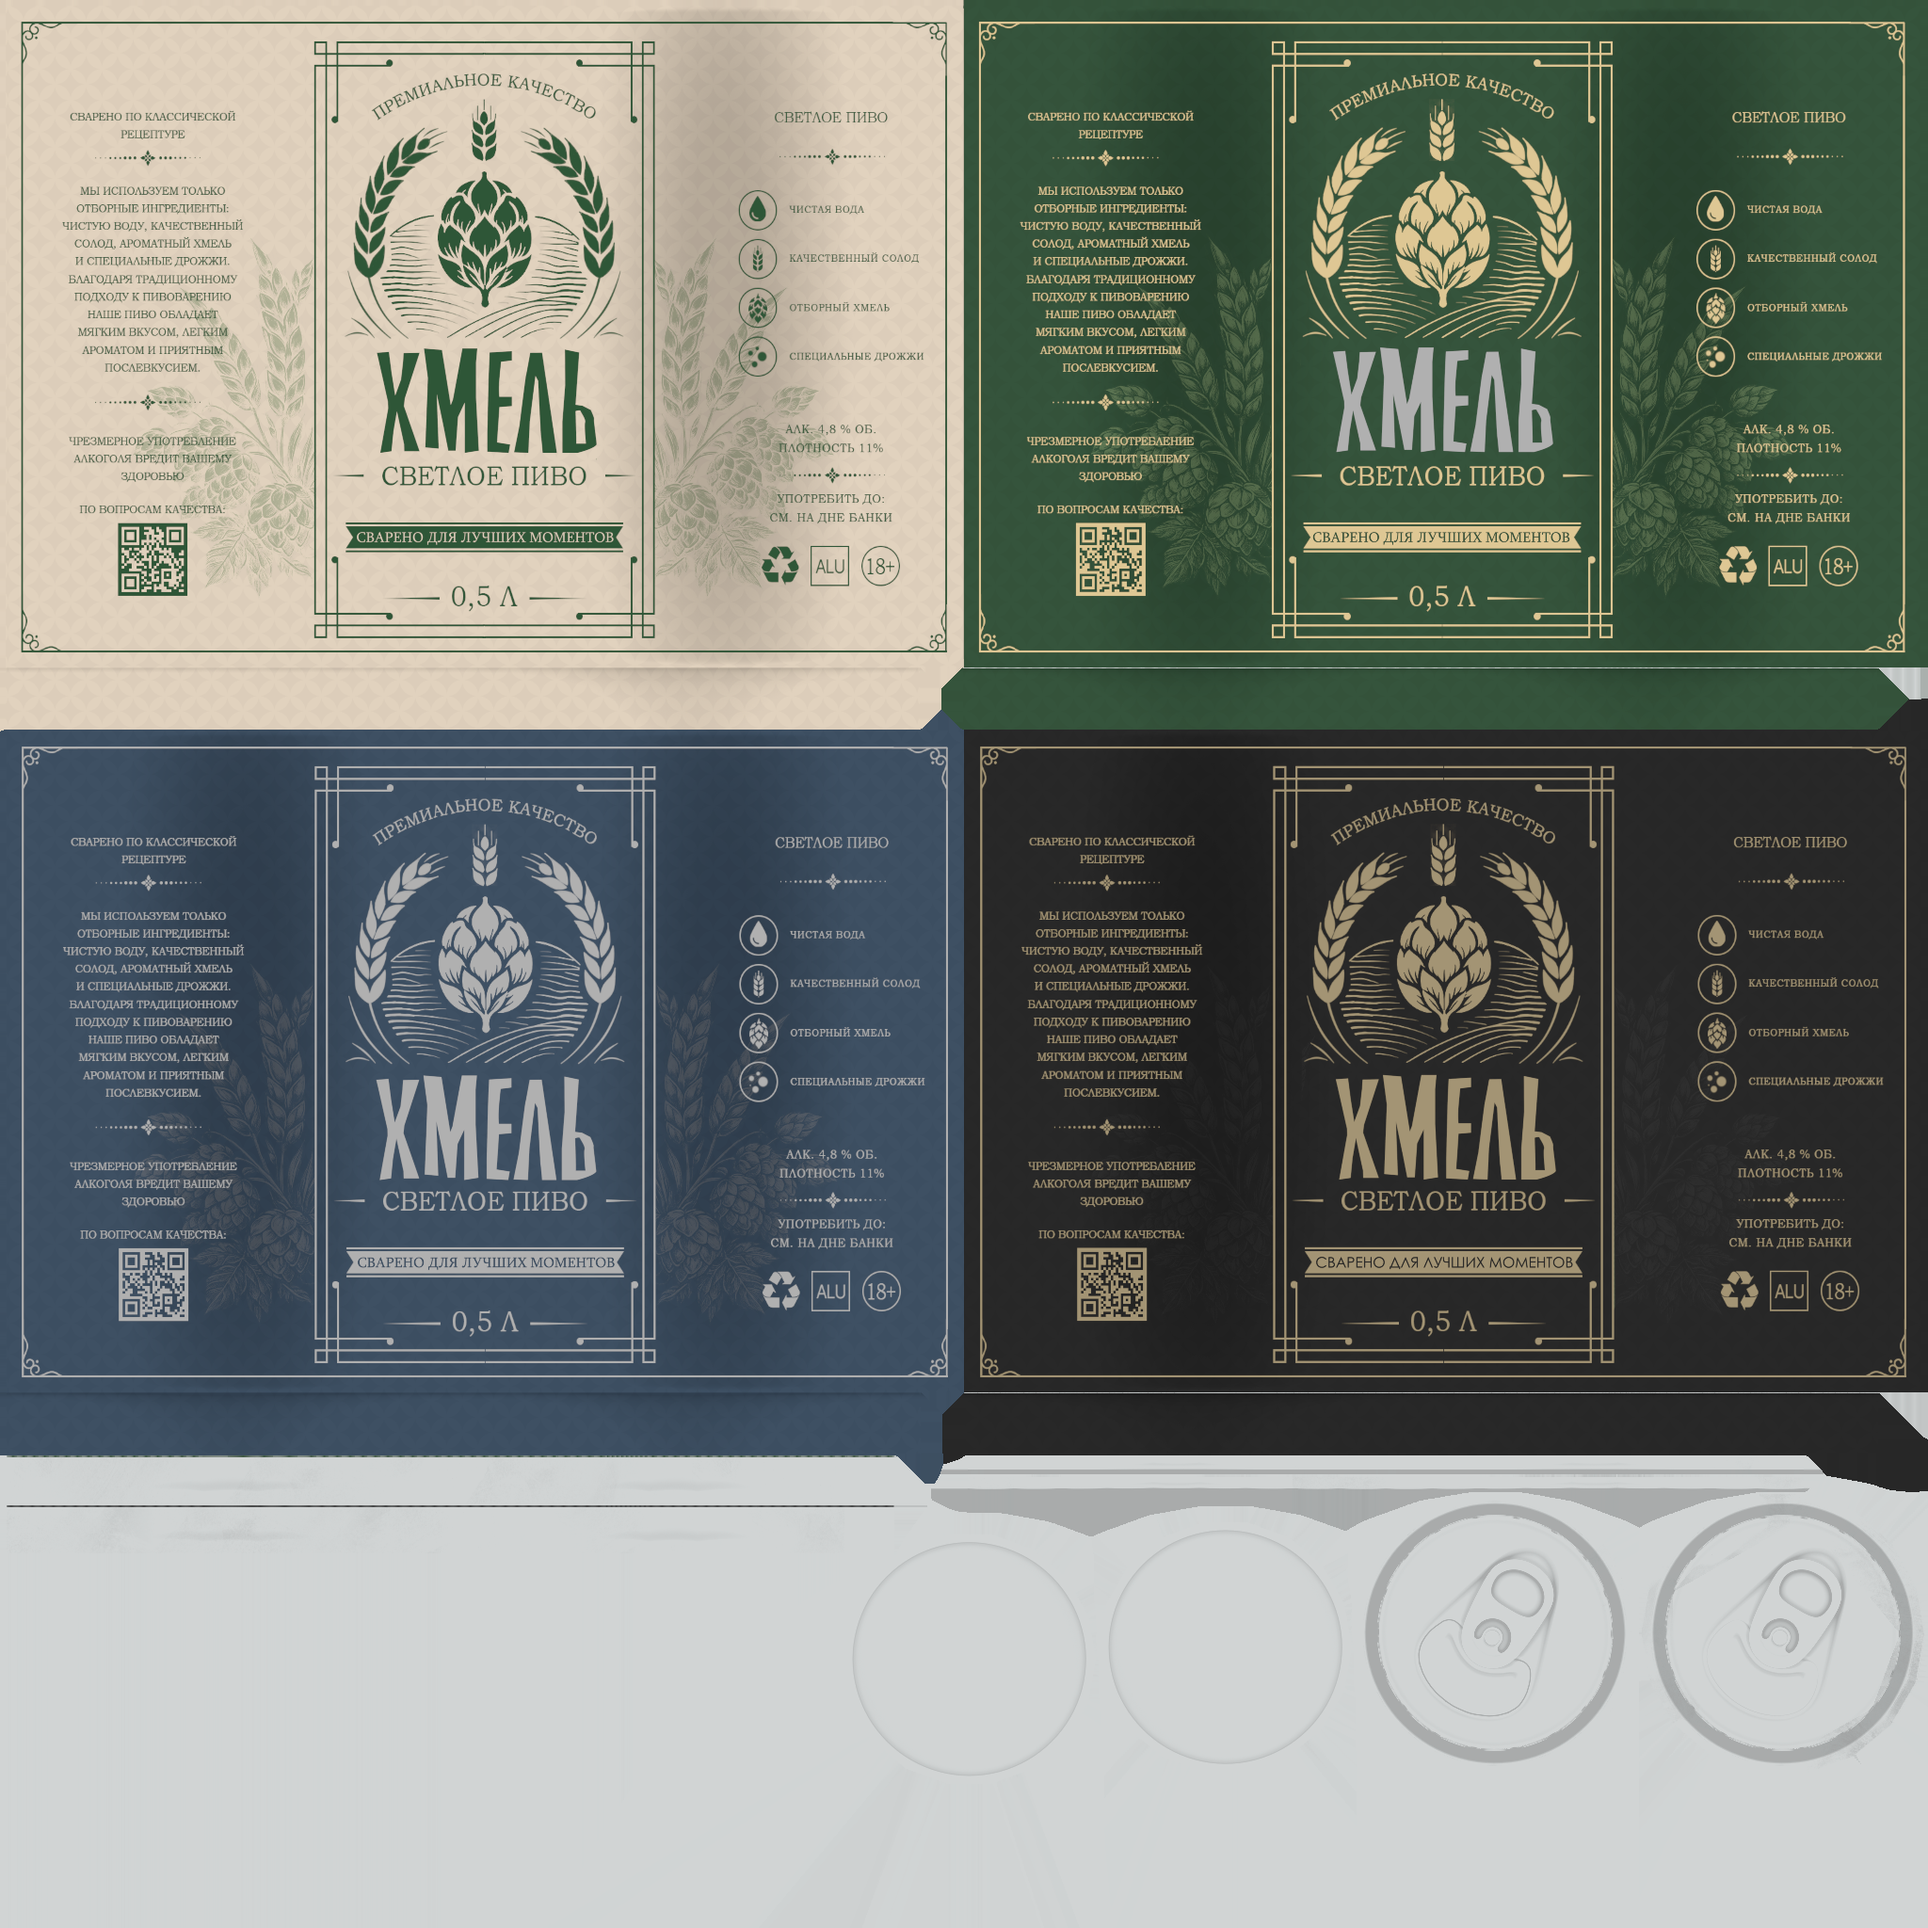
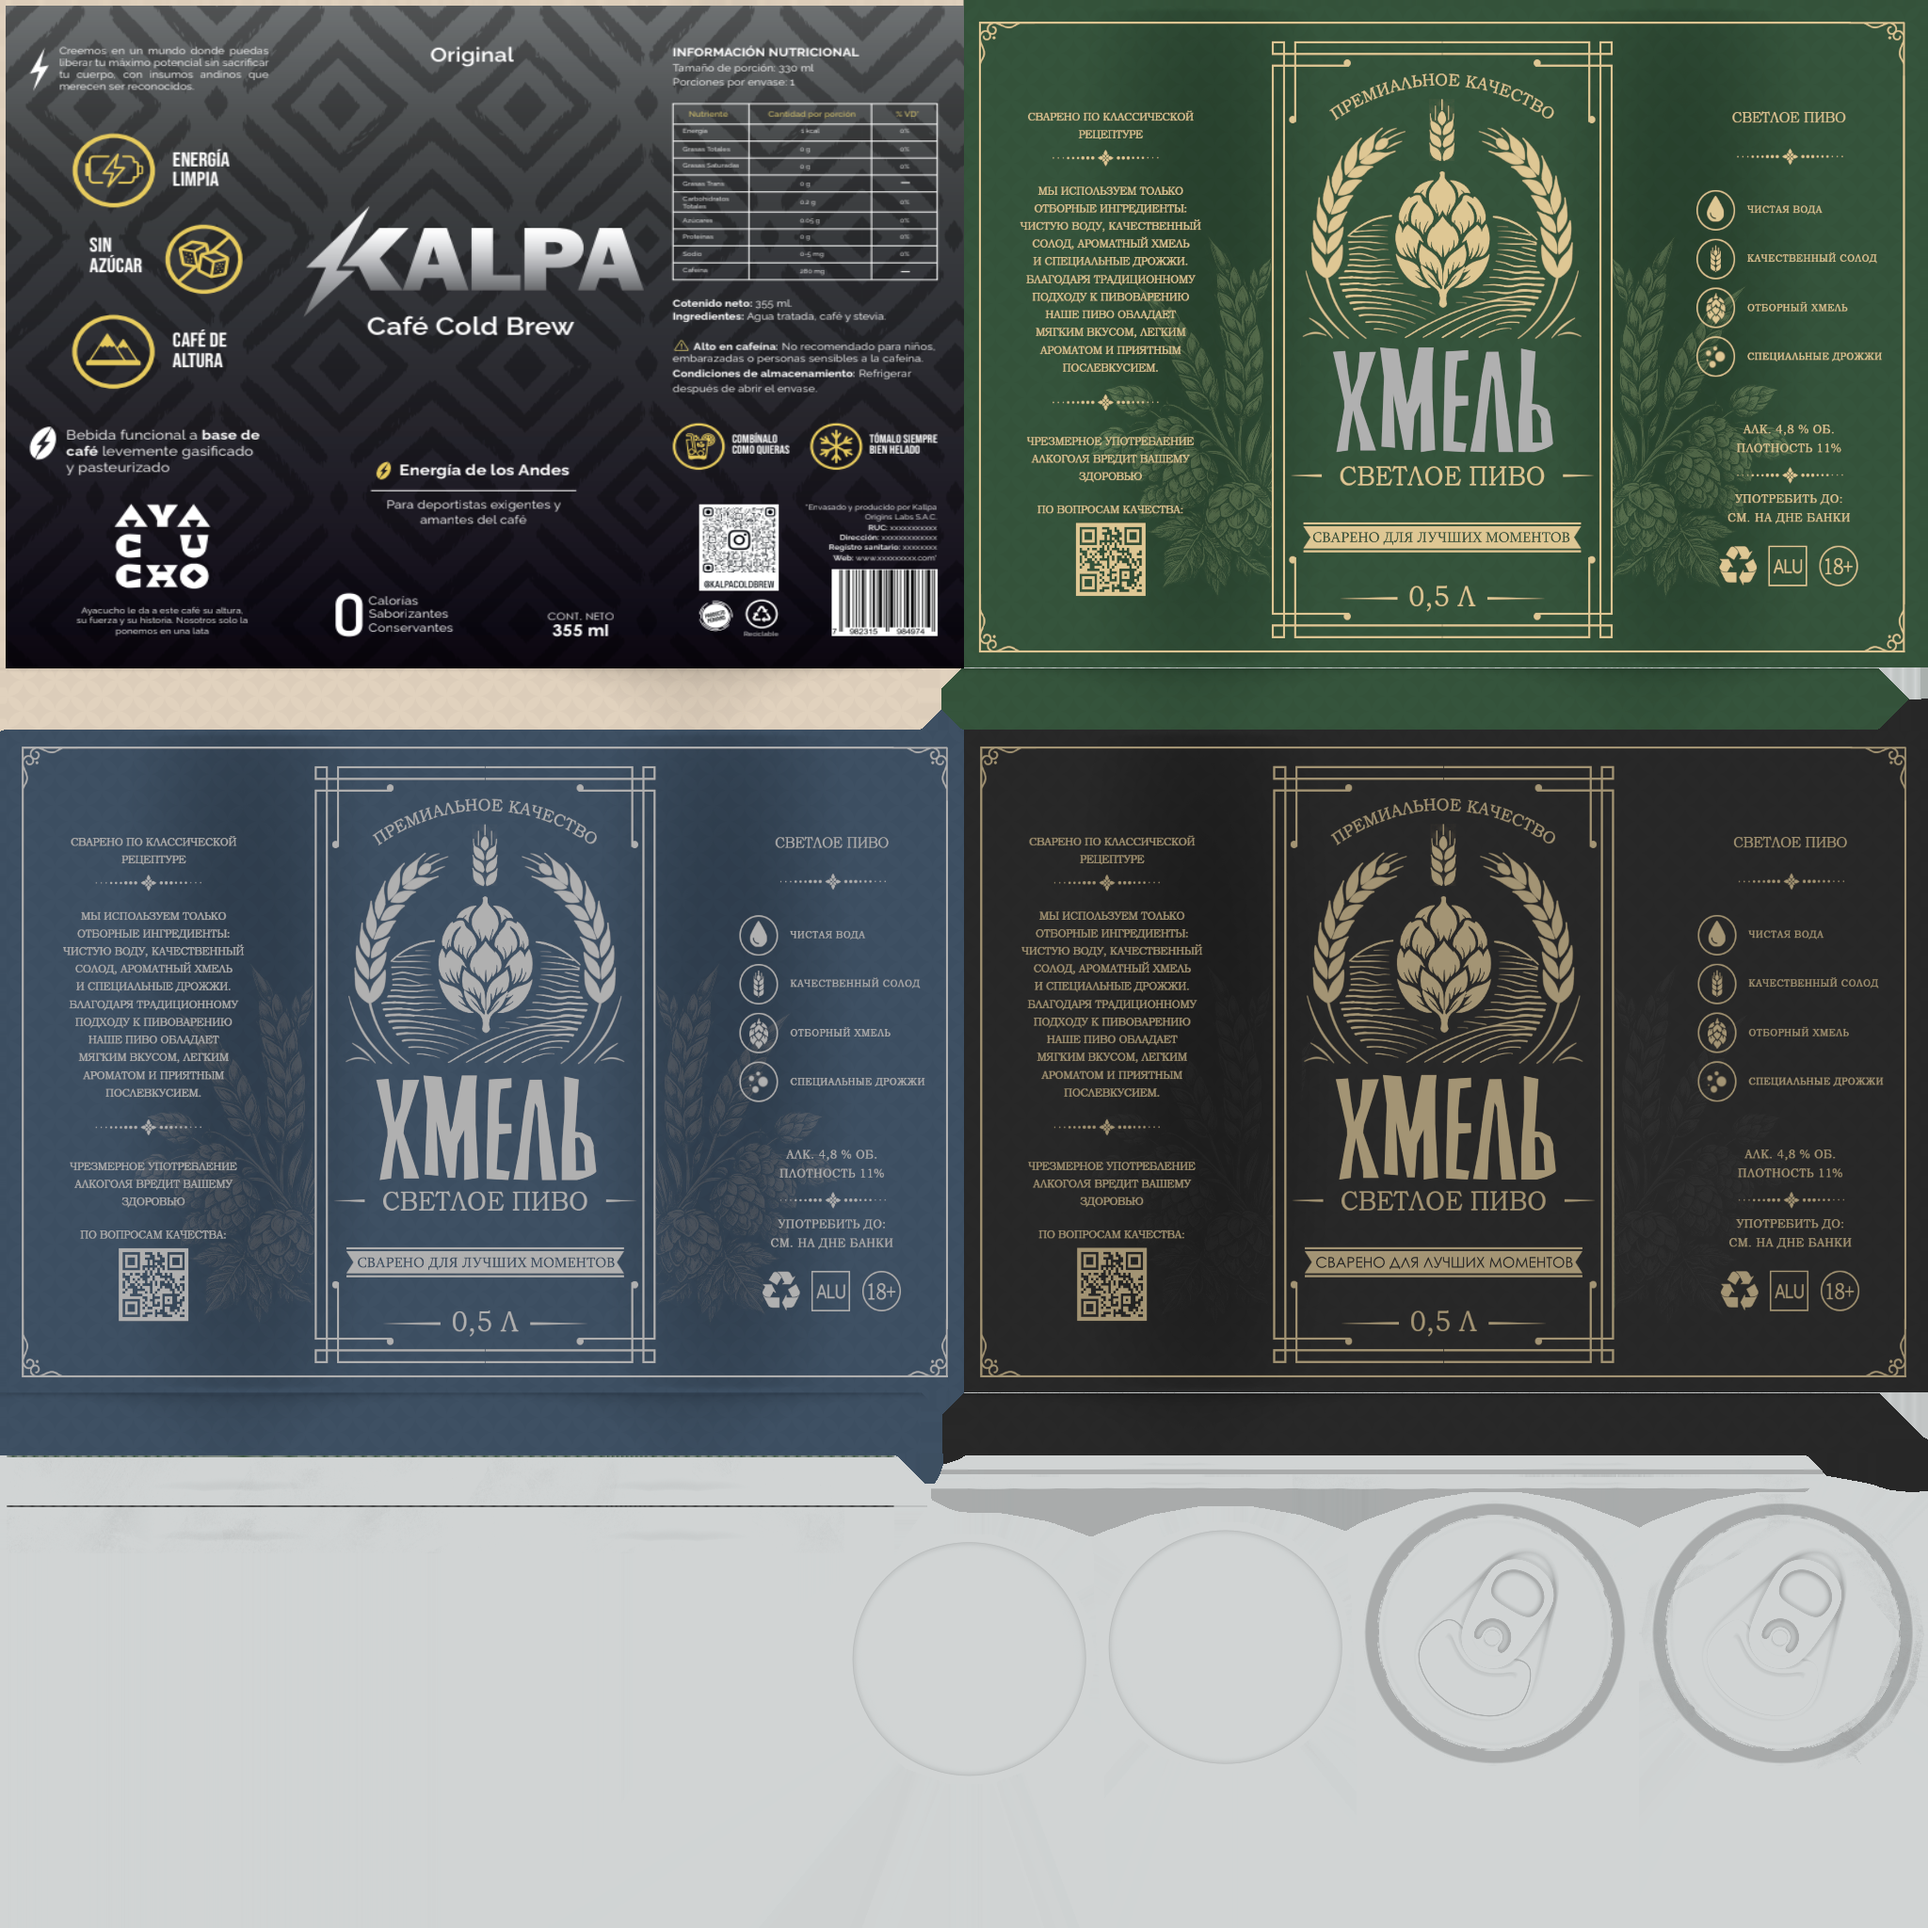
Aplicar diseno oficial KALPA Cafe Cold Brew y corregir deformacion en textura de la tapa

Changed region(s): [[0.0, 0.0, 0.5, 0.3438]]

diff --git a/RimRefiner.js b/RimRefiner.js
@@ -2,19 +2,17 @@ import * as THREE from 'three';
 import { mergeVertices } from 'three/addons/utils/BufferGeometryUtils.js';
 
 /**
- * Modifica la geometría de la lata original existente para que el borde superior (rim)
- * pase de ser un polígono facetado de 18 lados a un círculo perfectamente suave y continuo (72 lados),
- * manteniendo el resto de la lata, sus proporciones y sus UVs intactos.
+ * Modifica la geometría de la lata original existente para que únicamente el borde exterior (rim/chime)
+ * pase de ser un polígono facetado de 18 lados a un círculo suave y continuo (72 lados),
+ * dejando la tapa plana interior y el resto de la lata 100% intactos y sin ninguna deformación en su textura.
  * 
  * @param {THREE.BufferGeometry} geometry - Geometría original del FBX
  * @param {number} passes - Número de pases de subdivisión (2 = 72 segmentos radiales)
  * @returns {THREE.BufferGeometry} Geometría con el borde circular suavizado
  */
 export function makeCanRimCircular(geometry, passes = 2) {
-  // Trabajar sobre una copia limpia
   let currentGeo = geometry.clone();
 
-  // Asegurar que no esté indexada temporalmente para poder subdividir los triángulos del borde limpiamente
   if (currentGeo.index) {
     currentGeo = currentGeo.toNonIndexed();
   }
@@ -32,11 +30,24 @@ export function makeCanRimCircular(geometry, passes = 2) {
       const v1 = getV(i), v2 = getV(i + 1), v3 = getV(i + 2);
       const u1 = getU(i), u2 = getU(i + 1), u3 = getU(i + 2);
 
-      // En el FBX de la lata, la altura va a lo largo del eje Z (de 0 en la base a 165 en la tapa)
-      const maxZ = Math.max(v1.z, v2.z, v3.z);
+      const z1 = v1.z, z2 = v2.z, z3 = v3.z;
+      const r1 = Math.hypot(v1.x, v1.y);
+      const r2 = Math.hypot(v2.x, v2.y);
+      const r3 = Math.hypot(v3.x, v3.y);
 
-      // Si el triángulo pertenece al cuello superior o al borde (Z >= 152)
-      if (maxZ >= 152) {
+      const maxZ = Math.max(z1, z2, z3);
+      const minZ = Math.min(z1, z2, z3);
+      const maxR = Math.max(r1, r2, r3);
+
+      // IMPORTANTE:
+      // La tapa plana interior tiene Z ~ 162.5 y R <= 25.5.
+      // Debe quedar 100% intacta para evitar cualquier deformación en la textura de la chapa/tapa.
+      const isLidFace = (maxZ <= 162.6 && minZ >= 162.4 && maxR <= 25.5);
+
+      // Solo circularizamos el reborde exterior metálico (Z >= 162.0 y R >= 26.5)
+      const isOuterRim = !isLidFace && (maxZ >= 161.8 && maxR >= 26.2);
+
+      if (isOuterRim) {
         // Subdivisión 1 triángulo -> 4 triángulos
         const m12 = new THREE.Vector3().addVectors(v1, v2).multiplyScalar(0.5);
         const m23 = new THREE.Vector3().addVectors(v2, v3).multiplyScalar(0.5);
@@ -46,12 +57,12 @@ export function makeCanRimCircular(geometry, passes = 2) {
         const u23 = new THREE.Vector2().addVectors(u2, u3).multiplyScalar(0.5);
         const u31 = new THREE.Vector2().addVectors(u3, u1).multiplyScalar(0.5);
 
-        // Proyectar los puntos medios al radio circular exacto en el plano X-Y
+        // Proyectar únicamente los puntos medios que están en el aro exterior al radio circular exacto
         const projectToCircle = (va, vb, vm) => {
           const ra = Math.hypot(va.x, va.y);
           const rb = Math.hypot(vb.x, vb.y);
-          // Si ambos vértices están en el mismo aro circular concéntrico
-          if (Math.abs(ra - rb) < 1.8 && Math.abs(va.z - vb.z) < 1.5 && ra > 4.0) {
+          // Si ambos pertenecen al aro del reborde (radio exterior mayor a 26)
+          if (ra >= 26.0 && rb >= 26.0 && Math.abs(ra - rb) < 1.5 && Math.abs(va.z - vb.z) < 1.5) {
             const targetR = (ra + rb) * 0.5;
             const angle = Math.atan2(vm.y, vm.x);
             vm.x = targetR * Math.cos(angle);
@@ -73,7 +84,7 @@ export function makeCanRimCircular(geometry, passes = 2) {
         pushTri(m31, m23, v3, u31, u23, u3);
         pushTri(m12, m23, m31, u12, u23, u31);
       } else {
-        // Mantener intacto el resto de la lata original
+        // Todo lo demás (incluyendo la tapa plana interior y el cuerpo) queda intacto
         newPos.push(v1.x, v1.y, v1.z, v2.x, v2.y, v2.z, v3.x, v3.y, v3.z);
         newUV.push(u1.x, u1.y, u2.x, u2.y, u3.x, u3.y);
       }
@@ -84,7 +95,6 @@ export function makeCanRimCircular(geometry, passes = 2) {
     currentGeo.setAttribute('uv', new THREE.Float32BufferAttribute(newUV, 2));
   }
 
-  // Fusionar vértices adyacentes para permitir cálculo de normales suaves continuas
   const merged = mergeVertices(currentGeo, 0.05);
   merged.computeVertexNormals();
 

diff --git a/index.html b/index.html
@@ -391,11 +391,12 @@
     </div>
 
     <div class="control-group">
-      <div class="section-title">🎨 Textura y Material</div>
-      <label for="texture-preset">Textura</label>
+      <div class="section-title">🎨 Diseño y Texturas</div>
+      <label for="texture-preset">Diseño de Etiqueta</label>
       <select id="texture-preset">
-        <option value="ready" selected>Ready (Diseño Cerveza)</option>
-        <option value="custom">Customizable (Base)</option>
+        <option value="kalpa" selected>KALPA Café Cold Brew (Oficial)</option>
+        <option value="ready">Diseño Cerveza (Original)</option>
+        <option value="custom">Base Personalizable (Gris)</option>
       </select>
 
       <label>Metálico: <span id="val-metal">0.90</span></label>
@@ -470,7 +471,7 @@
       metalness: 0.90,
       roughness: 0.24,
       color: 0xffffff,
-      texturePreset: 'ready'
+      texturePreset: 'kalpa'
     };
 
     function init() {
@@ -548,11 +549,13 @@
     }
 
     async function preloadTextures() {
-      loaderStatus.textContent = 'Cargando texturas de la lata...';
+      loaderStatus.textContent = 'Cargando diseño KALPA y texturas...';
       const texLoader = new THREE.TextureLoader();
 
       const files = {
+        kalpaBase: 'Materials/Ready/T_BeerCan_Kalpa.png',
         readyBase: 'Materials/Ready/T_BeerCan_BaseColor.png',
+        originalBase: 'Materials/Ready/T_BeerCan_BaseColor_Original.png',
         readyNormal: 'Materials/Ready/T_BeerCan_Normal.png',
         readyRMAO: 'Materials/Ready/T_BeerCan_RMAO.png',
         customBase: 'Materials/Customizable/T_BeerCan_BaseColor.png',
@@ -613,6 +616,9 @@
           fbx.position.y = -updatedBox.min.y;
           fbx.position.z = -center.z;
 
+          // Orient front label toward camera
+          fbx.rotation.y = -Math.PI * 0.5;
+
           fbx.traverse((child) => {
             if (child.isMesh) {
               child.castShadow = true;
@@ -623,7 +629,7 @@
               rawGeometry = child.geometry.clone();
               rawGeometry.computeVertexNormals();
 
-              // Precalculate circular rim geometry
+              // Precalculate circular rim geometry (with lid face protection)
               smoothRimGeometry = makeCanRimCircular(rawGeometry, 2);
 
               // Apply current mode (circular by default)
@@ -667,7 +673,7 @@
         btnToggleRim.textContent = '✨ Borde Redondeado (ACTIVADO)';
         badgeStatus.textContent = 'Borde Circular Suave';
         badgeStatus.style.background = 'linear-gradient(135deg, #10b981, #059669)';
-        modelStats.textContent = `${fileName} • Borde suavizado y circularizado`;
+        modelStats.textContent = `${fileName} • Diseño KALPA • Tapa Nítida`;
       } else {
         btnToggleRim.className = 'btn btn-toggle-off';
         btnToggleRim.textContent = '⚠ Borde Original (Facetado / Cuadrado)';
@@ -678,10 +684,15 @@
     }
 
     function applyMaterial(mesh) {
-      const isReady = (matParams.texturePreset === 'ready');
-      const baseTex = isReady ? loadedTextures.readyBase : loadedTextures.customBase;
-      const normalTex = isReady ? loadedTextures.readyNormal : loadedTextures.customNormal;
-      const rmaoTex = isReady ? loadedTextures.readyRMAO : loadedTextures.customRMAO;
+      let baseTex = loadedTextures.kalpaBase || loadedTextures.readyBase;
+      if (matParams.texturePreset === 'ready') {
+        baseTex = loadedTextures.originalBase || loadedTextures.readyBase;
+      } else if (matParams.texturePreset === 'custom') {
+        baseTex = loadedTextures.customBase;
+      }
+
+      const normalTex = (matParams.texturePreset === 'custom') ? loadedTextures.customNormal : loadedTextures.readyNormal;
+      const rmaoTex = (matParams.texturePreset === 'custom') ? loadedTextures.customRMAO : loadedTextures.readyRMAO;
 
       const mat = new THREE.MeshStandardMaterial({
         color: new THREE.Color(matParams.color),
